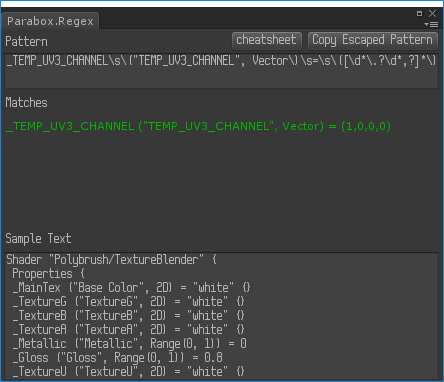
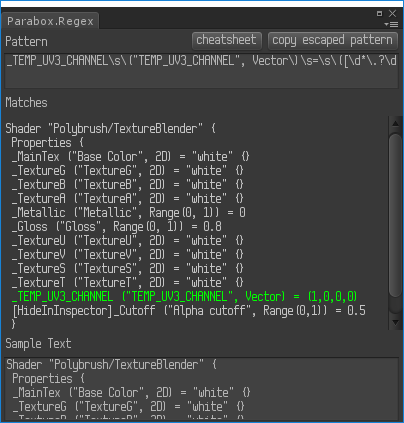
add new screenshot and fix margins on match style.

diff --git a/Editor/RegexBuilder.cs b/Editor/RegexBuilder.cs
@@ -27,6 +27,8 @@ namespace Parabox.RegexConstructor
 
 			matches_style.font = font;
 			matches_style.richText = true;
+			matches_style.margin = new RectOffset(4,4,4,4);
+			matches_style.padding = new RectOffset(2,2,2,2);
 			matches_style.normal.textColor = new Color(1f, 1f, 1f, .7f);
 		}
 
@@ -41,7 +43,7 @@ namespace Parabox.RegexConstructor
 				GUILayout.FlexibleSpace();
 				if(GUILayout.Button("cheatsheet"))	
 					Application.OpenURL("https://msdn.microsoft.com/en-us/library/az24scfc(v=vs.110).aspx");
-				if(GUILayout.Button("Copy Escaped Pattern"))
+				if(GUILayout.Button("copy escaped pattern"))
 					GUIUtility.systemCopyBuffer = escaped_pattern.Replace("\\", "\\\\").Replace("\"", "\\\"");
 			GUILayout.EndHorizontal();
 
